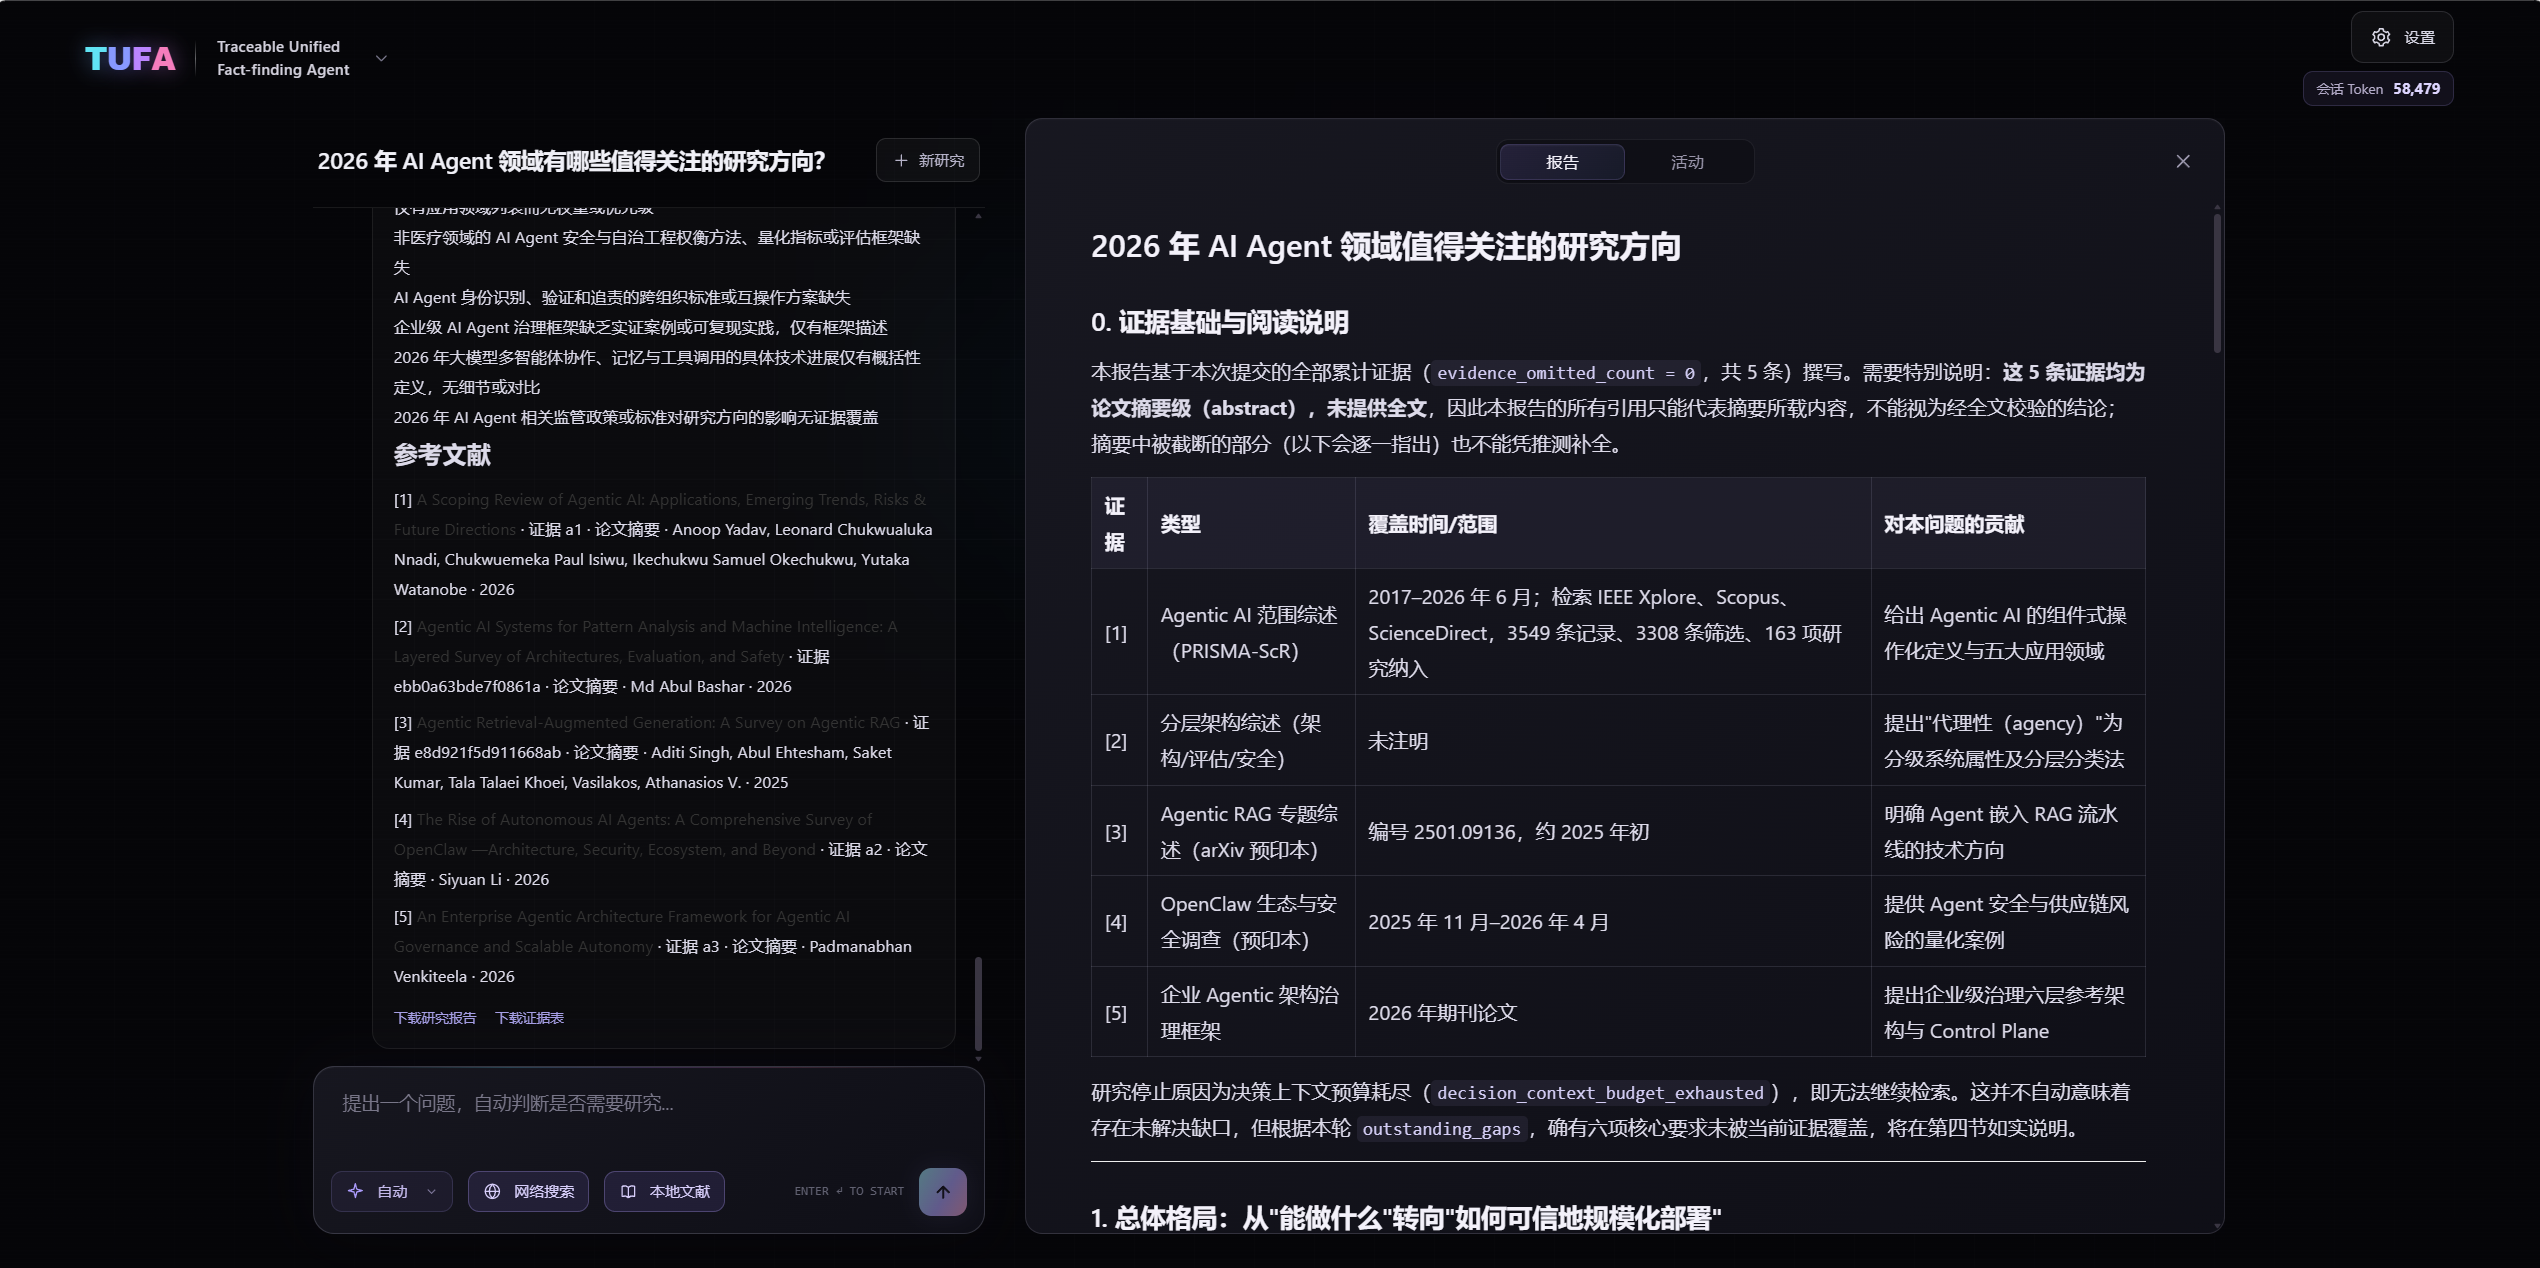
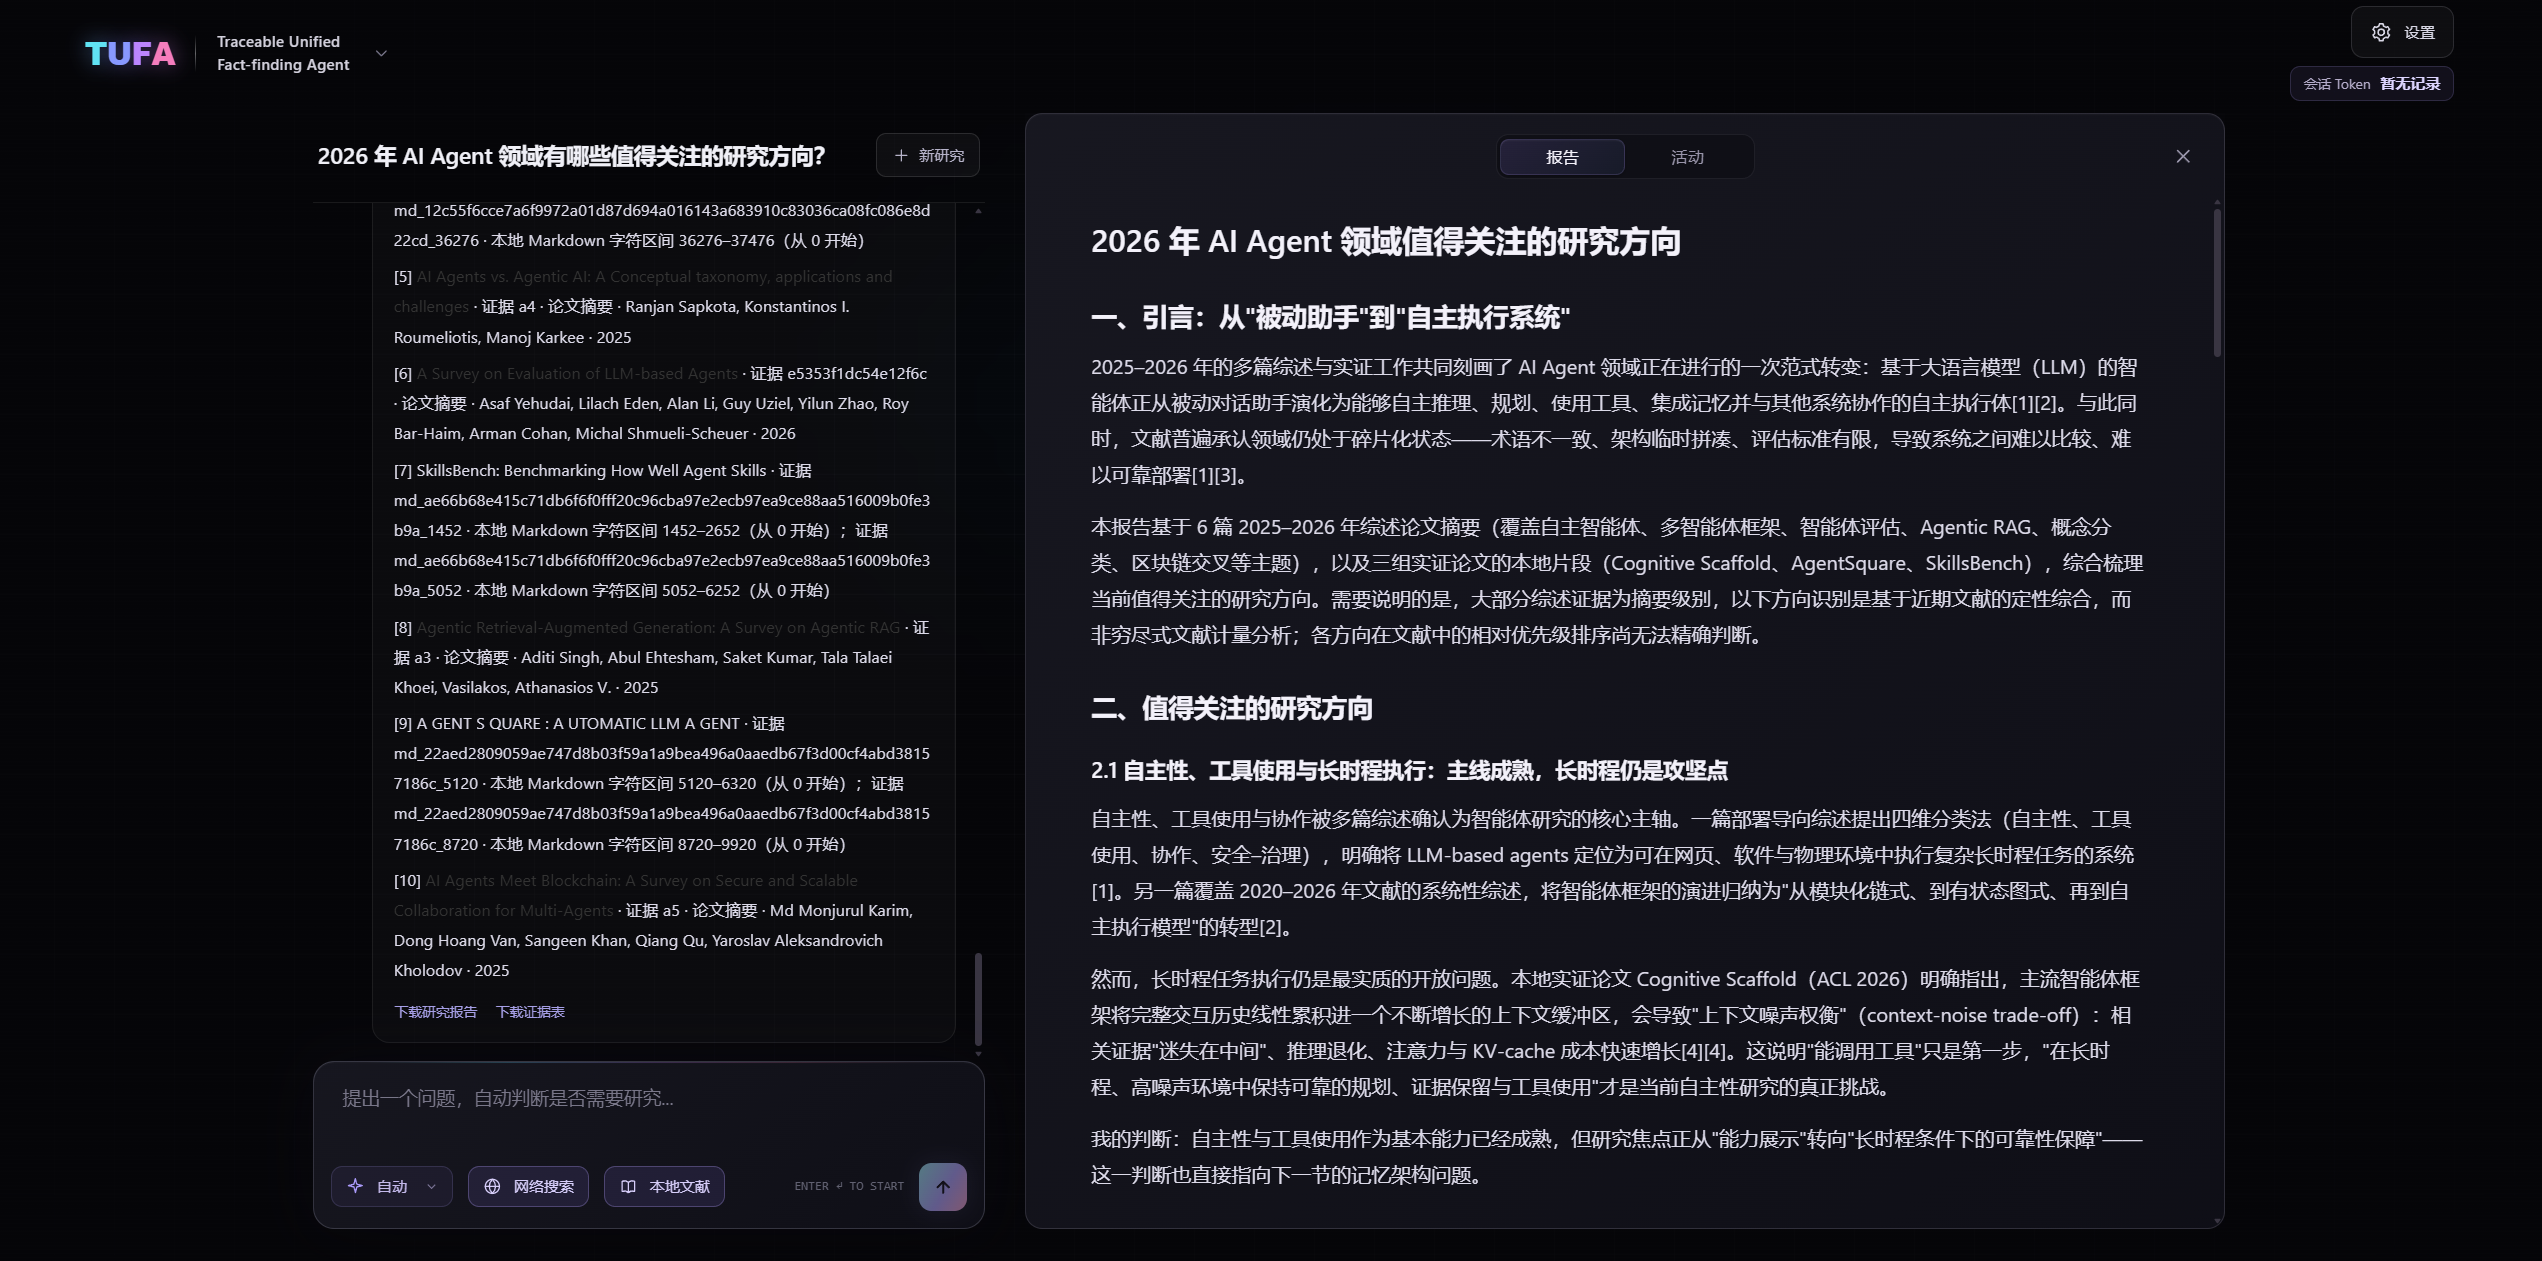
docs: refresh the research report screenshot

diff --git a/README.md b/README.md
@@ -23,7 +23,7 @@ TUFA 是在本机运行的科研 Agent。用它查文献、做综述，或带上
 
 ### 研究报告与引用
 
-[![AI Agent 研究报告的证据表、编号引用和参考文献](assets/screenshots/report.png)](assets/screenshots/report.png)
+[![AI Agent 研究报告的正文、编号引用和本地 Markdown 证据定位](assets/screenshots/report.png)](assets/screenshots/report.png)
 
 ## 快速开始
 
@@ -58,7 +58,7 @@ pnpm install --frozen-lockfile
 
 1. 打开「网络搜索」并提交问题。想直接进入研究流程，可以选择「深度研究」。
 2. 在「活动」看 TUFA 如何从学术检索展开研究，再提取证据、整理主题。
-3. 打开「报告」，从证据表和编号引用回到具体文献。这次报告归纳了 Agent 架构、Agentic RAG 和安全治理等方向。你可以下载 Markdown 报告和 CSV 证据表，继续阅读或整理。
+3. 打开「报告」，沿着编号引用找到对应论文或本地文档片段。截图中的报告讨论了智能体的自主性、工具使用和长时程执行。你可以下载 Markdown 报告和 CSV 证据表，继续阅读或整理。
 
 ## 适用范围
 
